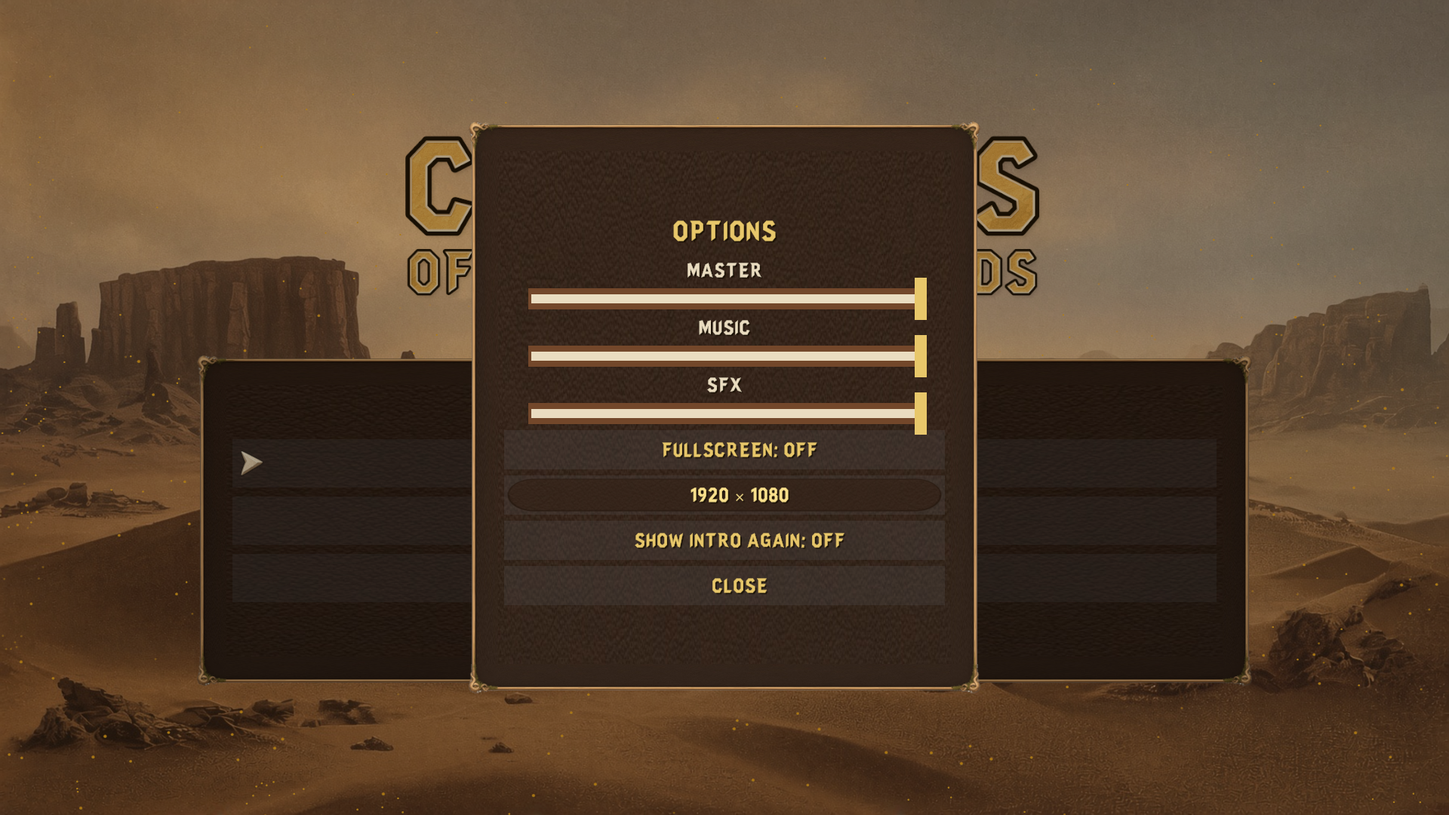
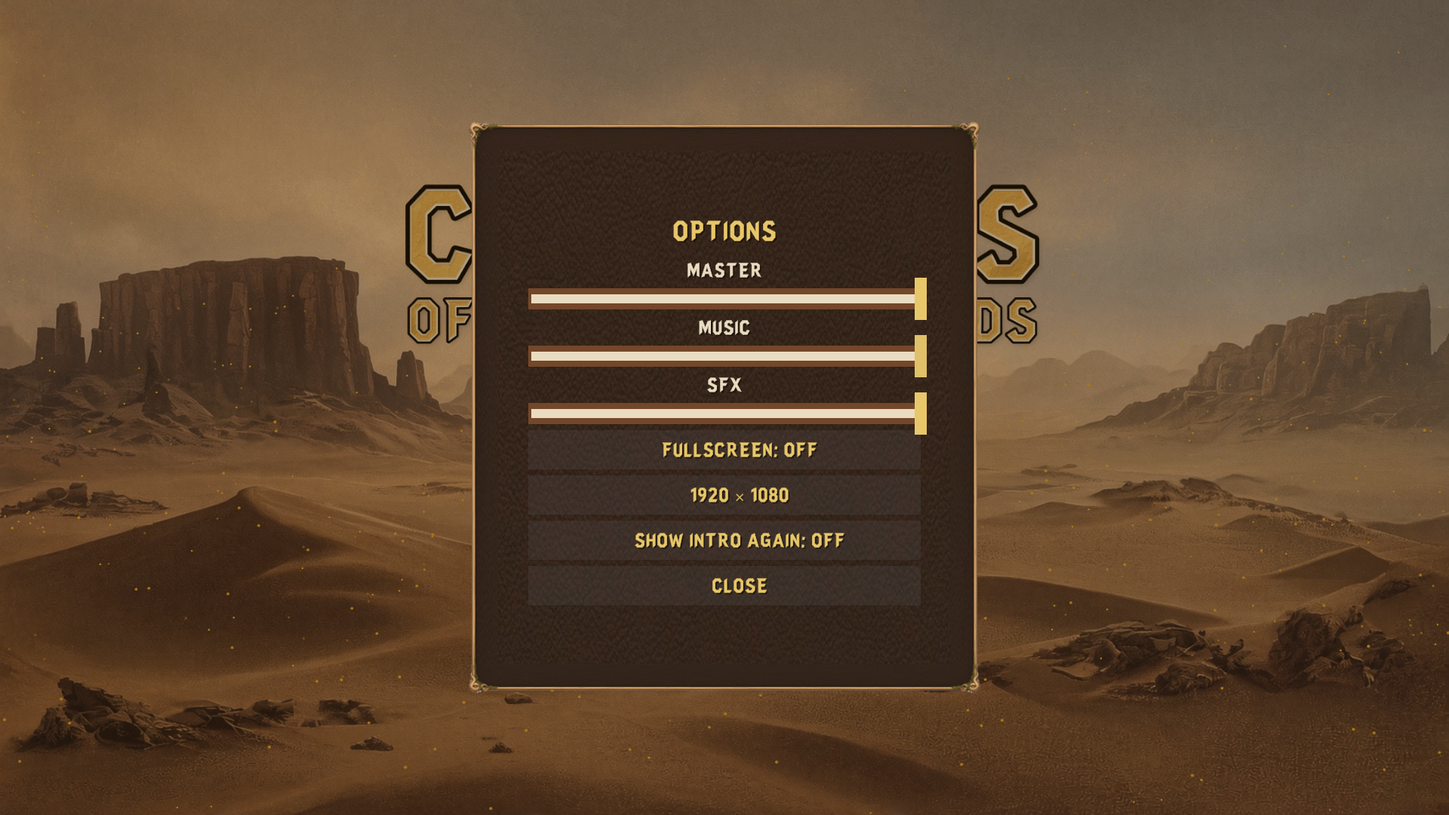
Size the title wood panel to its items and drop the menu row bars.
The panel sits under the tagline with the desert around it. Menu rows are text and a bone tick.

Changed region(s): [[0.6562, 0.1528, 0.875, 0.8556], [0.125, 0.1528, 0.3438, 0.8556], [0.4688, 0.5806, 0.5312, 0.6111]]

diff --git a/Assets/Editor/UiScreenshots.cs b/Assets/Editor/UiScreenshots.cs
@@ -37,8 +37,8 @@ public static class UiScreenshots
 
     static readonly Shot[] Shots =
     {
-        ShotOf("title", "01_title.png", "TitleScreen", "Main menu on the living-lumber wood panel. Text-only NEW GAME, OPTIONS, and EXIT. No Continue. Options closed. The sand is blowing.", Kind.Title, Kind.Title),
-        ShotOf("title-options", "02_title_options.png", "TitleScreen", "Options open on the wood panel over the main menu. Master, music, and SFX sliders, fullscreen, resolution, and Show intro again as text rows, and Close. No bone frame.", Kind.Title, Kind.Title),
+        ShotOf("title", "01_title.png", "TitleScreen", "Compact wood panel under the tagline, desert around it. Text-only NEW GAME, OPTIONS, and EXIT. No row bars. A bone tick marks the selected row. No Continue. Options closed. The sand is blowing.", Kind.Title, Kind.Title),
+        ShotOf("title-options", "02_title_options.png", "TitleScreen", "Options open on the wood panel over the main menu. Master, music, and SFX sliders, fullscreen, resolution, and Show intro again as text rows, and Close. No row bars. A bone tick marks a checked row. No bone frame.", Kind.Title, Kind.Title),
         ShotOf("show-play", null, null, null, Kind.Title, Kind.Play),
         ShotOf("intro", "03_intro_card.png", "SampleScene", "First-run intro card centred over the Kharûn market. Header, body, tagline, and a text-only BEGIN. Play input is locked.", Kind.Play, Kind.Play),
         ShotOf("seed", null, null, null, Kind.Play, Kind.Play),
@@ -50,7 +50,7 @@ public static class UiScreenshots
         ShotOf("inn", "20_plaza_inn.png", "SampleScene", "Plaza, Inn, at Kharûn.", Kind.Play, Kind.Play),
         ShotOf("gates", "21_plaza_gates.png", "SampleScene", "Plaza, Gates, at Kharûn. No road is lit. Neighbour road buttons sit inside the gates panel.", Kind.PlayMap, Kind.PlayMap),
         ShotOf("logbook", "40_logbook.png", "SampleScene", "Logbook open over the market at Kharûn, between the bars. Seeded buy and sale figures are on the rows. An unseen price is a dash.", Kind.Play, Kind.Play),
-        ShotOf("options", "41_pause_menu.png", "SampleScene", "Pause menu open over the Kharûn market. Wood panel, text-only RESUME, OPTIONS, MAIN MENU, and QUIT. Gear is visible on the top bar.", Kind.Play, Kind.Play),
+        ShotOf("options", "41_pause_menu.png", "SampleScene", "Pause menu open over the Kharûn market. Compact wood panel, text-only RESUME, OPTIONS, MAIN MENU, and QUIT. No row bars. A bone tick marks the selected row. Gear is visible on the top bar.", Kind.Play, Kind.Play),
         ShotOf("travel", "30_travel_map.png", "SampleScene", "Gates at Kharûn with the Draven road lit. The painted trail and the destination circle are up. Neighbour road buttons stay on the gates panel.", Kind.PlayMap, Kind.PlayMap),
         ShotOf("road", "31_road_choice.png", "SampleScene", "Gates at Kharûn with the Draven road lit. Careful, Steady, and Rush sit on the panel. Embark is live. No card covers the map.", Kind.PlayMap, Kind.PlayMap),
         ShotOf("depart", "32_departure.png", "SampleScene", "En route to Draven, paused at the Kharûn dock. The route line is drawn and the wagon has not moved.", Kind.PlayMap, Kind.PlayMap),
@@ -63,7 +63,7 @@ public static class UiScreenshots
         "The encounter card, the camp card, and the after-camp pace card are part of play. They are 33_encounter.png, 34_camp.png, and 35_resume_pace.png. Play has no tooltip type and no separate dialog type.\n\n"
         + "21_plaza_gates.png is the gates with no road lit. 30_travel_map.png is those same gates with the Kharûn to Draven road lit. That gates view is the travel map the player opens, and the neighbour road buttons stay on its panel.\n\n"
         + "31_road_choice.png is the gates panel with the Draven road lit. Careful, Steady, and Rush are on that panel, and Embark leaves. No card covers the map. The pace card opens after camp, which is 35_resume_pace.png, in the order Careful, Steady, Rush.\n\n"
-        + "House, Tavern, and Stables stay off the layout while ShowUnfinishedFeatures is off, so this capture does not include those rooms. Gear stays on the top bar and opens the pause menu, which is part of play. The title, title Options, and the pause menu use one wood panel and text-only items. Title Options includes Show intro again.\n\n"
+        + "House, Tavern, and Stables stay off the layout while ShowUnfinishedFeatures is off, so this capture does not include those rooms. Gear stays on the top bar and opens the pause menu, which is part of play. The title menu is a compact wood panel under the tagline. The title, title Options, and the pause menu use that wood panel and text-only items, with a bone tick and no row bars. Title Options includes Show intro again.\n\n"
         + "03_intro_card.png is the first-run intro card, one wood panel over the Kharûn market. It shows the header, the body, the tagline, and a text-only BEGIN. Play input is locked. Later New Games skip the card unless Show intro again is on.\n\n"
         + "15_market_ridgewatch.png is the long dock name. Sarn's Rest is a landmark. House, Tavern, and Stables are off the bar in this capture.\n\n"
         + "The caravan is House Kharûn. This run buys the first goods Kharûn will sell until four units are aboard, and it records the buy and sale figures the market would show. The clock stays at the new-game hour until the camp card.\n";

diff --git a/Assets/Scripts/FrontDoor/FrontUi.cs b/Assets/Scripts/FrontDoor/FrontUi.cs
@@ -162,19 +162,11 @@ namespace Caravans.FrontDoor
             var element = rect.gameObject.AddComponent<LayoutElement>();
             element.preferredWidth = width;
             element.preferredHeight = height;
+            element.flexibleWidth = 0f;
+            element.flexibleHeight = 0f;
             var hit = rect.gameObject.AddComponent<Image>();
             hit.color = new Color(1f, 1f, 1f, 0.01f);
             hit.raycastTarget = true;
-
-            var hoverGo = Box(rect, "Hover", Vector2.zero);
-            Stretch(hoverGo, Vector2.zero);
-            var hover = hoverGo.gameObject.AddComponent<Image>();
-            Sprite strip = FrontArt.HoverStrip();
-            hover.sprite = strip;
-            hover.type = strip != null ? Image.Type.Sliced : Image.Type.Simple;
-            hover.raycastTarget = false;
-            hover.enabled = false;
-            hoverGo.gameObject.AddComponent<LayoutElement>().ignoreLayout = true;
 
             var row = rect.gameObject.AddComponent<HorizontalLayoutGroup>();
             row.padding = new RectOffset(8, 12, 2, 2);
@@ -214,7 +206,7 @@ namespace Caravans.FrontDoor
             nav.mode = Navigation.Mode.None;
             button.navigation = nav;
             var menu = rect.gameObject.AddComponent<MenuRow>();
-            menu.Bind(button, label, shadow, hover, tick, enabled);
+            menu.Bind(button, label, shadow, tick, enabled);
             if (click != null)
             {
                 button.onClick.AddListener(() =>
@@ -264,7 +256,6 @@ namespace Caravans.FrontDoor
     {
         TextMeshProUGUI label;
         TextMeshProUGUI shadow;
-        Image hover;
         Image tick;
         Button button;
         bool live;
@@ -275,12 +266,11 @@ namespace Caravans.FrontDoor
 
         public Button Button => button;
 
-        public void Bind(Button host, TextMeshProUGUI text, TextMeshProUGUI shade, Image strip, Image bone, bool enabled)
+        public void Bind(Button host, TextMeshProUGUI text, TextMeshProUGUI shade, Image bone, bool enabled)
         {
             button = host;
             label = text;
             shadow = shade;
-            hover = strip;
             tick = bone;
             live = enabled;
             Paint();
@@ -358,8 +348,6 @@ namespace Caravans.FrontDoor
 
         void Paint()
         {
-            if (hover != null)
-                hover.enabled = live && over;
             if (tick != null)
                 tick.color = live && (selected || marked) ? Color.white : new Color(1f, 1f, 1f, 0f);
             if (label == null)

diff --git a/Assets/Scripts/FrontDoor/TitleScreen.cs b/Assets/Scripts/FrontDoor/TitleScreen.cs
@@ -62,23 +62,33 @@ namespace Caravans.FrontDoor
 
             FrontUi.Label(column, "Every road has a price.", UiType.Small, false, FrontUi.Subtitle, new Vector2(1400f, 36f));
 
-            var frame = FrontUi.Box(column, "MenuFrame", new Vector2(560f, 440f));
+            const float itemWidth = 440f;
+            const float itemHeight = 64f;
+            const float pad = 48f;
+            const float gap = 12f;
+            float frameWidth = itemWidth + pad * 2f;
+            float frameHeight = itemHeight * 3f + gap * 2f + pad * 2f;
+            var frame = FrontUi.Box(column, "MenuFrame", new Vector2(frameWidth, frameHeight));
             var frameElement = frame.gameObject.AddComponent<LayoutElement>();
-            frameElement.preferredWidth = 560f;
-            frameElement.preferredHeight = 440f;
+            frameElement.minWidth = frameWidth;
+            frameElement.preferredWidth = frameWidth;
+            frameElement.flexibleWidth = 0f;
+            frameElement.minHeight = frameHeight;
+            frameElement.preferredHeight = frameHeight;
+            frameElement.flexibleHeight = 0f;
             FrontUi.WoodSheet(frame);
             var frameLayout = frame.gameObject.AddComponent<VerticalLayoutGroup>();
-            frameLayout.padding = new RectOffset(48, 48, 48, 48);
-            frameLayout.spacing = 12f;
+            frameLayout.padding = new RectOffset((int)pad, (int)pad, (int)pad, (int)pad);
+            frameLayout.spacing = gap;
             frameLayout.childAlignment = TextAnchor.MiddleCenter;
             frameLayout.childControlWidth = true;
             frameLayout.childControlHeight = true;
             frameLayout.childForceExpandWidth = false;
             frameLayout.childForceExpandHeight = false;
 
-            newGame = FrontUi.MenuItem(frame, "NEW GAME", true, Gate.ConfirmRun, 440f, 64f).Button;
-            FrontUi.MenuItem(frame, "OPTIONS", true, OpenOptions, 440f, 64f);
-            FrontUi.MenuItem(frame, "EXIT", true, Quit, 440f, 64f);
+            newGame = FrontUi.MenuItem(frame, "NEW GAME", true, Gate.ConfirmRun, itemWidth, itemHeight).Button;
+            FrontUi.MenuItem(frame, "OPTIONS", true, OpenOptions, itemWidth, itemHeight);
+            FrontUi.MenuItem(frame, "EXIT", true, Quit, itemWidth, itemHeight);
             BuildOptions(canvas);
             if (EventSystem.current != null)
                 EventSystem.current.SetSelectedGameObject(newGame.gameObject);

diff --git a/Assets/Scripts/FrontDoor/FrontArt.cs b/Assets/Scripts/FrontDoor/FrontArt.cs
@@ -6,7 +6,6 @@ namespace Caravans.FrontDoor
     public static class FrontArt
     {
         static Sprite woodPanel;
-        static Sprite hoverStrip;
         static Sprite boneTick;
         static Sprite parchment;
         static Sprite hidePanel;
@@ -33,13 +32,6 @@ namespace Caravans.FrontDoor
             if (woodPanel == null)
                 woodPanel = Resources.Load<Sprite>("FrontDoor/ui_wood_panel");
             return woodPanel;
-        }
-
-        public static Sprite HoverStrip()
-        {
-            if (hoverStrip == null)
-                hoverStrip = Resources.Load<Sprite>("FrontDoor/ui_hover_strip");
-            return hoverStrip;
         }
 
         public static Sprite BoneTick()

diff --git a/Assets/Editor/UiTextureImporter.cs b/Assets/Editor/UiTextureImporter.cs
@@ -108,12 +108,6 @@ public class UiTextureImporter : AssetPostprocessor
             return true;
         }
 
-        if (name == "ui_hover_strip.png")
-        {
-            border = new Vector4(60f, 4f, 60f, 4f);
-            return true;
-        }
-
         if (name == "ui_bone_tick.png")
         {
             border = Vector4.zero;

diff --git a/Vision.md b/Vision.md
@@ -24,9 +24,9 @@ Names and place stories live in `Caravans_Goods.md`. Weight, pack size, base pri
 
 ## How a session opens
 
-The title is a desert picture with a bed of blowing sand. The wordmark is the approved logo, and the line under it is "Every road has a price." The title menu is one living-lumber wood panel with text-only items: NEW GAME, OPTIONS, and EXIT. There is no Continue. New Game opens free play as House Kharûn at Kharûn, with 400 coin, an empty wagon, a full canteen, and a full ration bag, and the title theme fades out over about a second and a half. The first New Game then shows one intro card before any other play control works. The card is that same wood panel, centred over the market. Cream text gives the header "Kharûn, at the edge of the Cutting Sands.", a body about the wagon, the agents, and the purse of scrubstone, the tagline "Every road has a price.", and a text-only BEGIN. Enter, Space, Escape, or BEGIN dismisses it, marks it seen, and turns Show intro again off. Later New Games skip the card unless that row is on. The backdrop does not dismiss it. The clock does not move while it is open, and Escape does not open the pause menu on the frame it closes. Dismissing it leaves the same new game underneath. A title theme loops while the title is up. OPTIONS opens master, music, and SFX volume, fullscreen, resolution, Show intro again, and Close, as text rows and slim sliders on that same wood panel. Esc closes Options when it is open. Master sets the listener. Music scales the title theme. SFX scales the goods clicks. Headers and menu words are Cutting Sands. The rest of the text is Bona Nova SC.
+The title is a desert picture with a bed of blowing sand. The wordmark is the approved logo, and the line under it is "Every road has a price." The title menu is a compact living-lumber wood panel under the tagline, with the desert around it, and text-only items: NEW GAME, OPTIONS, and EXIT. A bone tick marks the selected or checked row. No bar sits behind a row. There is no Continue. New Game opens free play as House Kharûn at Kharûn, with 400 coin, an empty wagon, a full canteen, and a full ration bag, and the title theme fades out over about a second and a half. The first New Game then shows one intro card before any other play control works. The card is that same wood panel, centred over the market. Cream text gives the header "Kharûn, at the edge of the Cutting Sands.", a body about the wagon, the agents, and the purse of scrubstone, the tagline "Every road has a price.", and a text-only BEGIN. Enter, Space, Escape, or BEGIN dismisses it, marks it seen, and turns Show intro again off. Later New Games skip the card unless that row is on. The backdrop does not dismiss it. The clock does not move while it is open, and Escape does not open the pause menu on the frame it closes. Dismissing it leaves the same new game underneath. A title theme loops while the title is up. OPTIONS opens master, music, and SFX volume, fullscreen, resolution, Show intro again, and Close, as text rows and slim sliders on that same wood panel, with no bar behind a row. Esc closes Options when it is open. Master sets the listener. Music scales the title theme. SFX scales the goods clicks. Headers and menu words are Cutting Sands. The rest of the text is Bona Nova SC.
 
-A run lasts until the player returns to the title, quits, or leaves play mode. Esc, or Gear on the top bar, opens a pause menu on that wood panel: RESUME, OPTIONS, MAIN MENU, and QUIT. The clock stays frozen while the pause menu or its Options sheet is open. OPTIONS uses the same sheet as the title, including Show intro again. Close on that sheet returns to the pause list. MAIN MENU returns to the title. QUIT leaves the game. Gear stays visible while ShowUnfinishedFeatures is off. The tavern, the stables, and the house room stay off the dock. Their placeholder cards are not on screen.
+A run lasts until the player returns to the title, quits, or leaves play mode. Esc, or Gear on the top bar, opens a pause menu on that compact wood panel: RESUME, OPTIONS, MAIN MENU, and QUIT. A bone tick marks the selected row. No bar sits behind a row. The clock stays frozen while the pause menu or its Options sheet is open. OPTIONS uses the same sheet as the title, including Show intro again. Close on that sheet returns to the pause list. MAIN MENU returns to the title. QUIT leaves the game. Gear stays visible while ShowUnfinishedFeatures is off. The tavern, the stables, and the house room stay off the dock. Their placeholder cards are not on screen.
 
 The editor menu Caravans/Capture UI Screenshots writes one 1920×1080 picture of each screen into `Screenshots/` at the project root and lists them in `Screenshots/index.md`.
 
@@ -111,8 +111,8 @@ Logbook on the top bar opens a parchment chart of every good, in catalog order, 
 **Front door**
 
 - Title with blowing sand, the approved logo, and the line "Every road has a price." A title theme loops and fades out over about a second and a half when New Game starts. Music scales that theme.
-- Text-only NEW GAME, OPTIONS, and EXIT on one living-lumber wood panel. There is no Continue. Options is the same wood panel, with master, music, and SFX sliders, fullscreen, resolution, Show intro again, and Close. New Game opens free play as House Kharûn at Kharûn, with 400 coin, an empty wagon, a full canteen, and a full ration bag. The first New Game shows an intro card on that wood panel over the market, with a text-only BEGIN. Later New Games skip it unless Show intro again is on. Enter, Space, Escape, or BEGIN dismisses it and marks it seen.
-- Esc or Gear opens the pause menu on that wood panel: RESUME, OPTIONS, MAIN MENU, and QUIT. The clock stays frozen while it is open. Escape dismisses the intro card instead of opening this menu, including the frame the card closes. MAIN MENU returns to the title. QUIT leaves the game. Headers and menu words are Cutting Sands. Other text is Bona Nova SC.
+- Text-only NEW GAME, OPTIONS, and EXIT on a compact living-lumber wood panel under the tagline, with the desert around it. A bone tick marks the selected or checked row. No bar sits behind a row. There is no Continue. Options is the same wood panel, with master, music, and SFX sliders, fullscreen, resolution, Show intro again, and Close. New Game opens free play as House Kharûn at Kharûn, with 400 coin, an empty wagon, a full canteen, and a full ration bag. The first New Game shows an intro card on that wood panel over the market, with a text-only BEGIN. Later New Games skip it unless Show intro again is on. Enter, Space, Escape, or BEGIN dismisses it and marks it seen.
+- Esc or Gear opens the pause menu on that compact wood panel: RESUME, OPTIONS, MAIN MENU, and QUIT. No bar sits behind a row. The clock stays frozen while it is open. Escape dismisses the intro card instead of opening this menu, including the frame the card closes. MAIN MENU returns to the title. QUIT leaves the game. Headers and menu words are Cutting Sands. Other text is Bona Nova SC.
 
 **At a settlement**
 

diff --git a/Art_Vision.md b/Art_Vision.md
@@ -20,7 +20,7 @@ The paper target is the mockup `Npz0d.jpg` in the project root. It is a referenc
 
 A document is aged cream parchment: visible fiber, foxing, faint cracks, and a torn deckled edge. There is no ink corner and no medallion. The fill is the paper itself. Text is never painted on the sheet. The picture is `Assets/Resources/Ui/parchment-plain.png`. The logbook uses it. The older scrollwork sheet `Assets/Resources/Ui/parchment.png` stays on disk and is not shown.
 
-The world is the background. A settlement screen uses the blurred picture `Assets/Art/Approved/bg_settlement_generic.png`. The sharp file beside it stays out of the game. On the road the painted map is the view. The accepted play sheet is `Assets/Art/Approved/ui_hide_panel.png`: dark tanned Giant Duzhu hide. Play tucks that sheet's own rim under one thin Hulv-bone edge. A rectangle carries one decorative border. That bone edge is the market panel, the gates road list, and a modal card. It is drawn at about 38 reference pixels, about two-fifths of the full slice. The top bar and the bottom bar are plain dark strips, 76 reference pixels tall, with no bone. The map's edge is a thin shimmersteel rod. Text on the hide is cream, about `#EADCC0`. At 1080p the minimum is 22, body and menu lines are 27, bottom tabs and Buy and Sell are 26, the market detail name is 28, its price line and a logbook row are 24, the HUD values are 30, and headers are 38. Gold is the header and the selected line. Text on the painted sand keeps a dark shadow. The title menu, the title Options sheet, and the in-game pause menu use one living-lumber wood panel, `Assets/Resources/FrontDoor/ui_wood_panel.png`, with the carved edge tucked to about 40 reference pixels. Those items are text only. `ui_hover_strip.png` sits behind a row while the pointer is on it. `ui_bone_tick.png` marks the selected item and a checked toggle. The older even-grain hide `Assets/Resources/Ui/duzhu-hide-panel.png` and the shimmersteel rail `Assets/Resources/Ui/banner.png` stay on disk and are not shown. The bar file `Assets/Art/Approved/ui_hide_bar.png` stays on disk. Play does not draw it.
+The world is the background. A settlement screen uses the blurred picture `Assets/Art/Approved/bg_settlement_generic.png`. The sharp file beside it stays out of the game. On the road the painted map is the view. The accepted play sheet is `Assets/Art/Approved/ui_hide_panel.png`: dark tanned Giant Duzhu hide. Play tucks that sheet's own rim under one thin Hulv-bone edge. A rectangle carries one decorative border. That bone edge is the market panel, the gates road list, and a modal card. It is drawn at about 38 reference pixels, about two-fifths of the full slice. The top bar and the bottom bar are plain dark strips, 76 reference pixels tall, with no bone. The map's edge is a thin shimmersteel rod. Text on the hide is cream, about `#EADCC0`. At 1080p the minimum is 22, body and menu lines are 27, bottom tabs and Buy and Sell are 26, the market detail name is 28, its price line and a logbook row are 24, the HUD values are 30, and headers are 38. Gold is the header and the selected line. Text on the painted sand keeps a dark shadow. The title menu, the title Options sheet, and the in-game pause menu use one living-lumber wood panel, `Assets/Resources/FrontDoor/ui_wood_panel.png`, with the carved edge tucked to about 40 reference pixels. The title panel is compact and sits under the tagline, with the desert around it. Those items are text only. `ui_bone_tick.png` marks the selected item and a checked toggle. Hover brightens the text. No bar sits behind a row. The older even-grain hide `Assets/Resources/Ui/duzhu-hide-panel.png` and the shimmersteel rail `Assets/Resources/Ui/banner.png` stay on disk and are not shown. The bar file `Assets/Art/Approved/ui_hide_bar.png` stays on disk. Play does not draw it.
 
 Play tabs are the approved scrubcast resin seals in `Assets/Art/Approved/`. Market, Inn, House, Gates, Buy, and Sell each have a signet, a brighter hover, and a darker press. Other buttons use the blank seal `ui_seal_base.png` with Unity text and no signet. A goods slot uses `ui_goods_cell.png`, and a selected slot uses `ui_goods_cell_selected.png`. The wagon capacity frame is `ui_meter_frame.png`, sliced just inside the talons, and the fill is `ui_meter_fill.png`. The older resin seals, one drip and a bead, stay on disk and are not shown.
 

diff --git a/Screenshots/index.md b/Screenshots/index.md
@@ -1,11 +1,11 @@
 # UI screenshots
 
-Captured 2026-11-20 at commit 9566b48 (working tree).
+Captured 2026-11-20 at commit b4623b9 (working tree).
 
 | File | Scene | State |
 | --- | --- | --- |
-| 01_title.png | TitleScreen | Main menu on the living-lumber wood panel. Text-only NEW GAME, OPTIONS, and EXIT. No Continue. Options closed. The sand is blowing. |
-| 02_title_options.png | TitleScreen | Options open on the wood panel over the main menu. Master, music, and SFX sliders, fullscreen, resolution, and Show intro again as text rows, and Close. No bone frame. |
+| 01_title.png | TitleScreen | Compact wood panel under the tagline, desert around it. Text-only NEW GAME, OPTIONS, and EXIT. No row bars. A bone tick marks the selected row. No Continue. Options closed. The sand is blowing. |
+| 02_title_options.png | TitleScreen | Options open on the wood panel over the main menu. Master, music, and SFX sliders, fullscreen, resolution, and Show intro again as text rows, and Close. No row bars. A bone tick marks a checked row. No bone frame. |
 | 03_intro_card.png | SampleScene | First-run intro card centred over the Kharûn market. Header, body, tagline, and a text-only BEGIN. Play input is locked. |
 | 10_market_empty.png | SampleScene | Market at Kharûn. No cell is selected. The wagon holds the seeded cargo. |
 | 11_market_selected_buy.png | SampleScene | Market at Kharûn. A shop cell with stock is selected. |
@@ -15,7 +15,7 @@ Captured 2026-11-20 at commit 9566b48 (working tree).
 | 20_plaza_inn.png | SampleScene | Plaza, Inn, at Kharûn. |
 | 21_plaza_gates.png | SampleScene | Plaza, Gates, at Kharûn. No road is lit. Neighbour road buttons sit inside the gates panel. |
 | 40_logbook.png | SampleScene | Logbook open over the market at Kharûn, between the bars. Seeded buy and sale figures are on the rows. An unseen price is a dash. |
-| 41_pause_menu.png | SampleScene | Pause menu open over the Kharûn market. Wood panel, text-only RESUME, OPTIONS, MAIN MENU, and QUIT. Gear is visible on the top bar. |
+| 41_pause_menu.png | SampleScene | Pause menu open over the Kharûn market. Compact wood panel, text-only RESUME, OPTIONS, MAIN MENU, and QUIT. No row bars. A bone tick marks the selected row. Gear is visible on the top bar. |
 | 30_travel_map.png | SampleScene | Gates at Kharûn with the Draven road lit. The painted trail and the destination circle are up. Neighbour road buttons stay on the gates panel. |
 | 31_road_choice.png | SampleScene | Gates at Kharûn with the Draven road lit. Careful, Steady, and Rush sit on the panel. Embark is live. No card covers the map. |
 | 32_departure.png | SampleScene | En route to Draven, paused at the Kharûn dock. The route line is drawn and the wagon has not moved. |
@@ -29,7 +29,7 @@ The encounter card, the camp card, and the after-camp pace card are part of play
 
 31_road_choice.png is the gates panel with the Draven road lit. Careful, Steady, and Rush are on that panel, and Embark leaves. No card covers the map. The pace card opens after camp, which is 35_resume_pace.png, in the order Careful, Steady, Rush.
 
-House, Tavern, and Stables stay off the layout while ShowUnfinishedFeatures is off, so this capture does not include those rooms. Gear stays on the top bar and opens the pause menu, which is part of play. The title, title Options, and the pause menu use one wood panel and text-only items. Title Options includes Show intro again.
+House, Tavern, and Stables stay off the layout while ShowUnfinishedFeatures is off, so this capture does not include those rooms. Gear stays on the top bar and opens the pause menu, which is part of play. The title menu is a compact wood panel under the tagline. The title, title Options, and the pause menu use that wood panel and text-only items, with a bone tick and no row bars. Title Options includes Show intro again.
 
 03_intro_card.png is the first-run intro card, one wood panel over the Kharûn market. It shows the header, the body, the tagline, and a text-only BEGIN. Play input is locked. Later New Games skip the card unless Show intro again is on.
 
